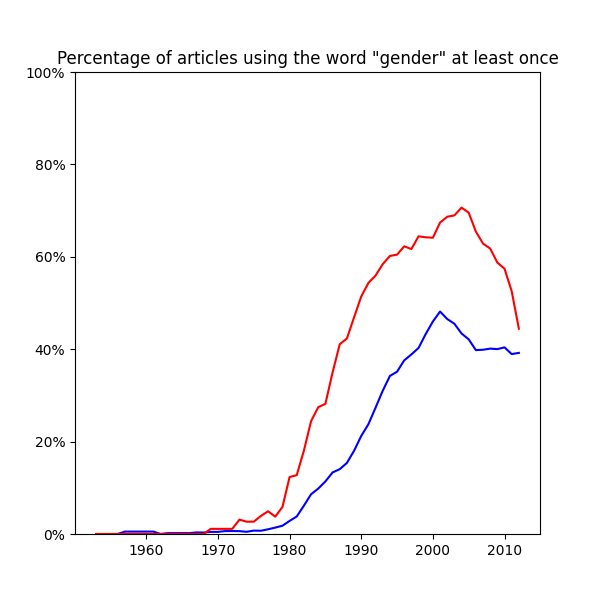
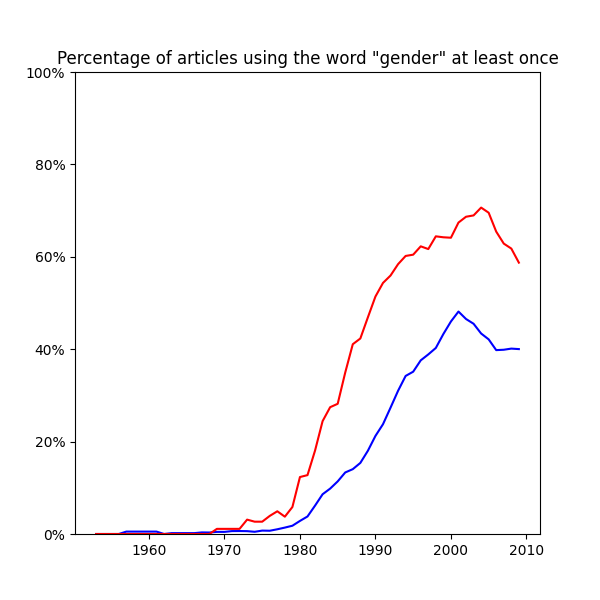
bechdel

diff --git a/gender_history/visualizations/bechdel_plot.py b/gender_history/visualizations/bechdel_plot.py
@@ -25,7 +25,7 @@ def plot_bechdel(term='she', dataset=None):
 
     if not dataset:
         dataset = JournalsDataset()
-        dataset.get_vocabulary_and_document_term_matrix(max_features=10000, use_frequencies=True,
+        dataset.get_vocabulary_and_document_term_matrix(vocabulary=[term], use_frequencies=True,
                                                     store_in_df=True)
     df = dataset.df
     male_data = []
@@ -45,9 +45,10 @@ def plot_bechdel(term='she', dataset=None):
     gs = gridspec.GridSpec(nrows=1, ncols= 1, figure=fig)
     ax = fig.add_subplot(gs[0,0])
 
-    x = [i for i in range(dataset.start_year + 2, dataset.end_year - 1 )]
-    rolling_mean_male = pd.DataFrame(male_data).rolling(center=True, window=5).mean()[0].tolist()[2:-2]
-    rolling_mean_female = pd.DataFrame(female_data).rolling(center=True, window=5).mean()[0].tolist()[2:-2]
+    x = [i for i in range(dataset.start_year + 2, dataset.end_year - 4 )]
+    print(x)
+    rolling_mean_male = pd.DataFrame(male_data).rolling(center=True, window=5).mean()[0].tolist()[2:-5]
+    rolling_mean_female = pd.DataFrame(female_data).rolling(center=True, window=5).mean()[0].tolist()[2:-5]
 
     ax.plot(x, rolling_mean_male, color='blue')
     ax.plot(x, rolling_mean_female, color='red')
@@ -71,7 +72,7 @@ if __name__ == '__main__':
     plot_bechdel(term='she', dataset=dataset)
     plot_bechdel(term='women', dataset=dataset)
     plot_bechdel(term='gender', dataset=dataset)
-    plot_bechdel(term='sex', dataset=dataset)
-    plot_bechdel(term='sexuality', dataset=dataset)
+    # plot_bechdel(term='sex', dataset=dataset)
+    # plot_bechdel(term='sexuality', dataset=dataset)
 
 
